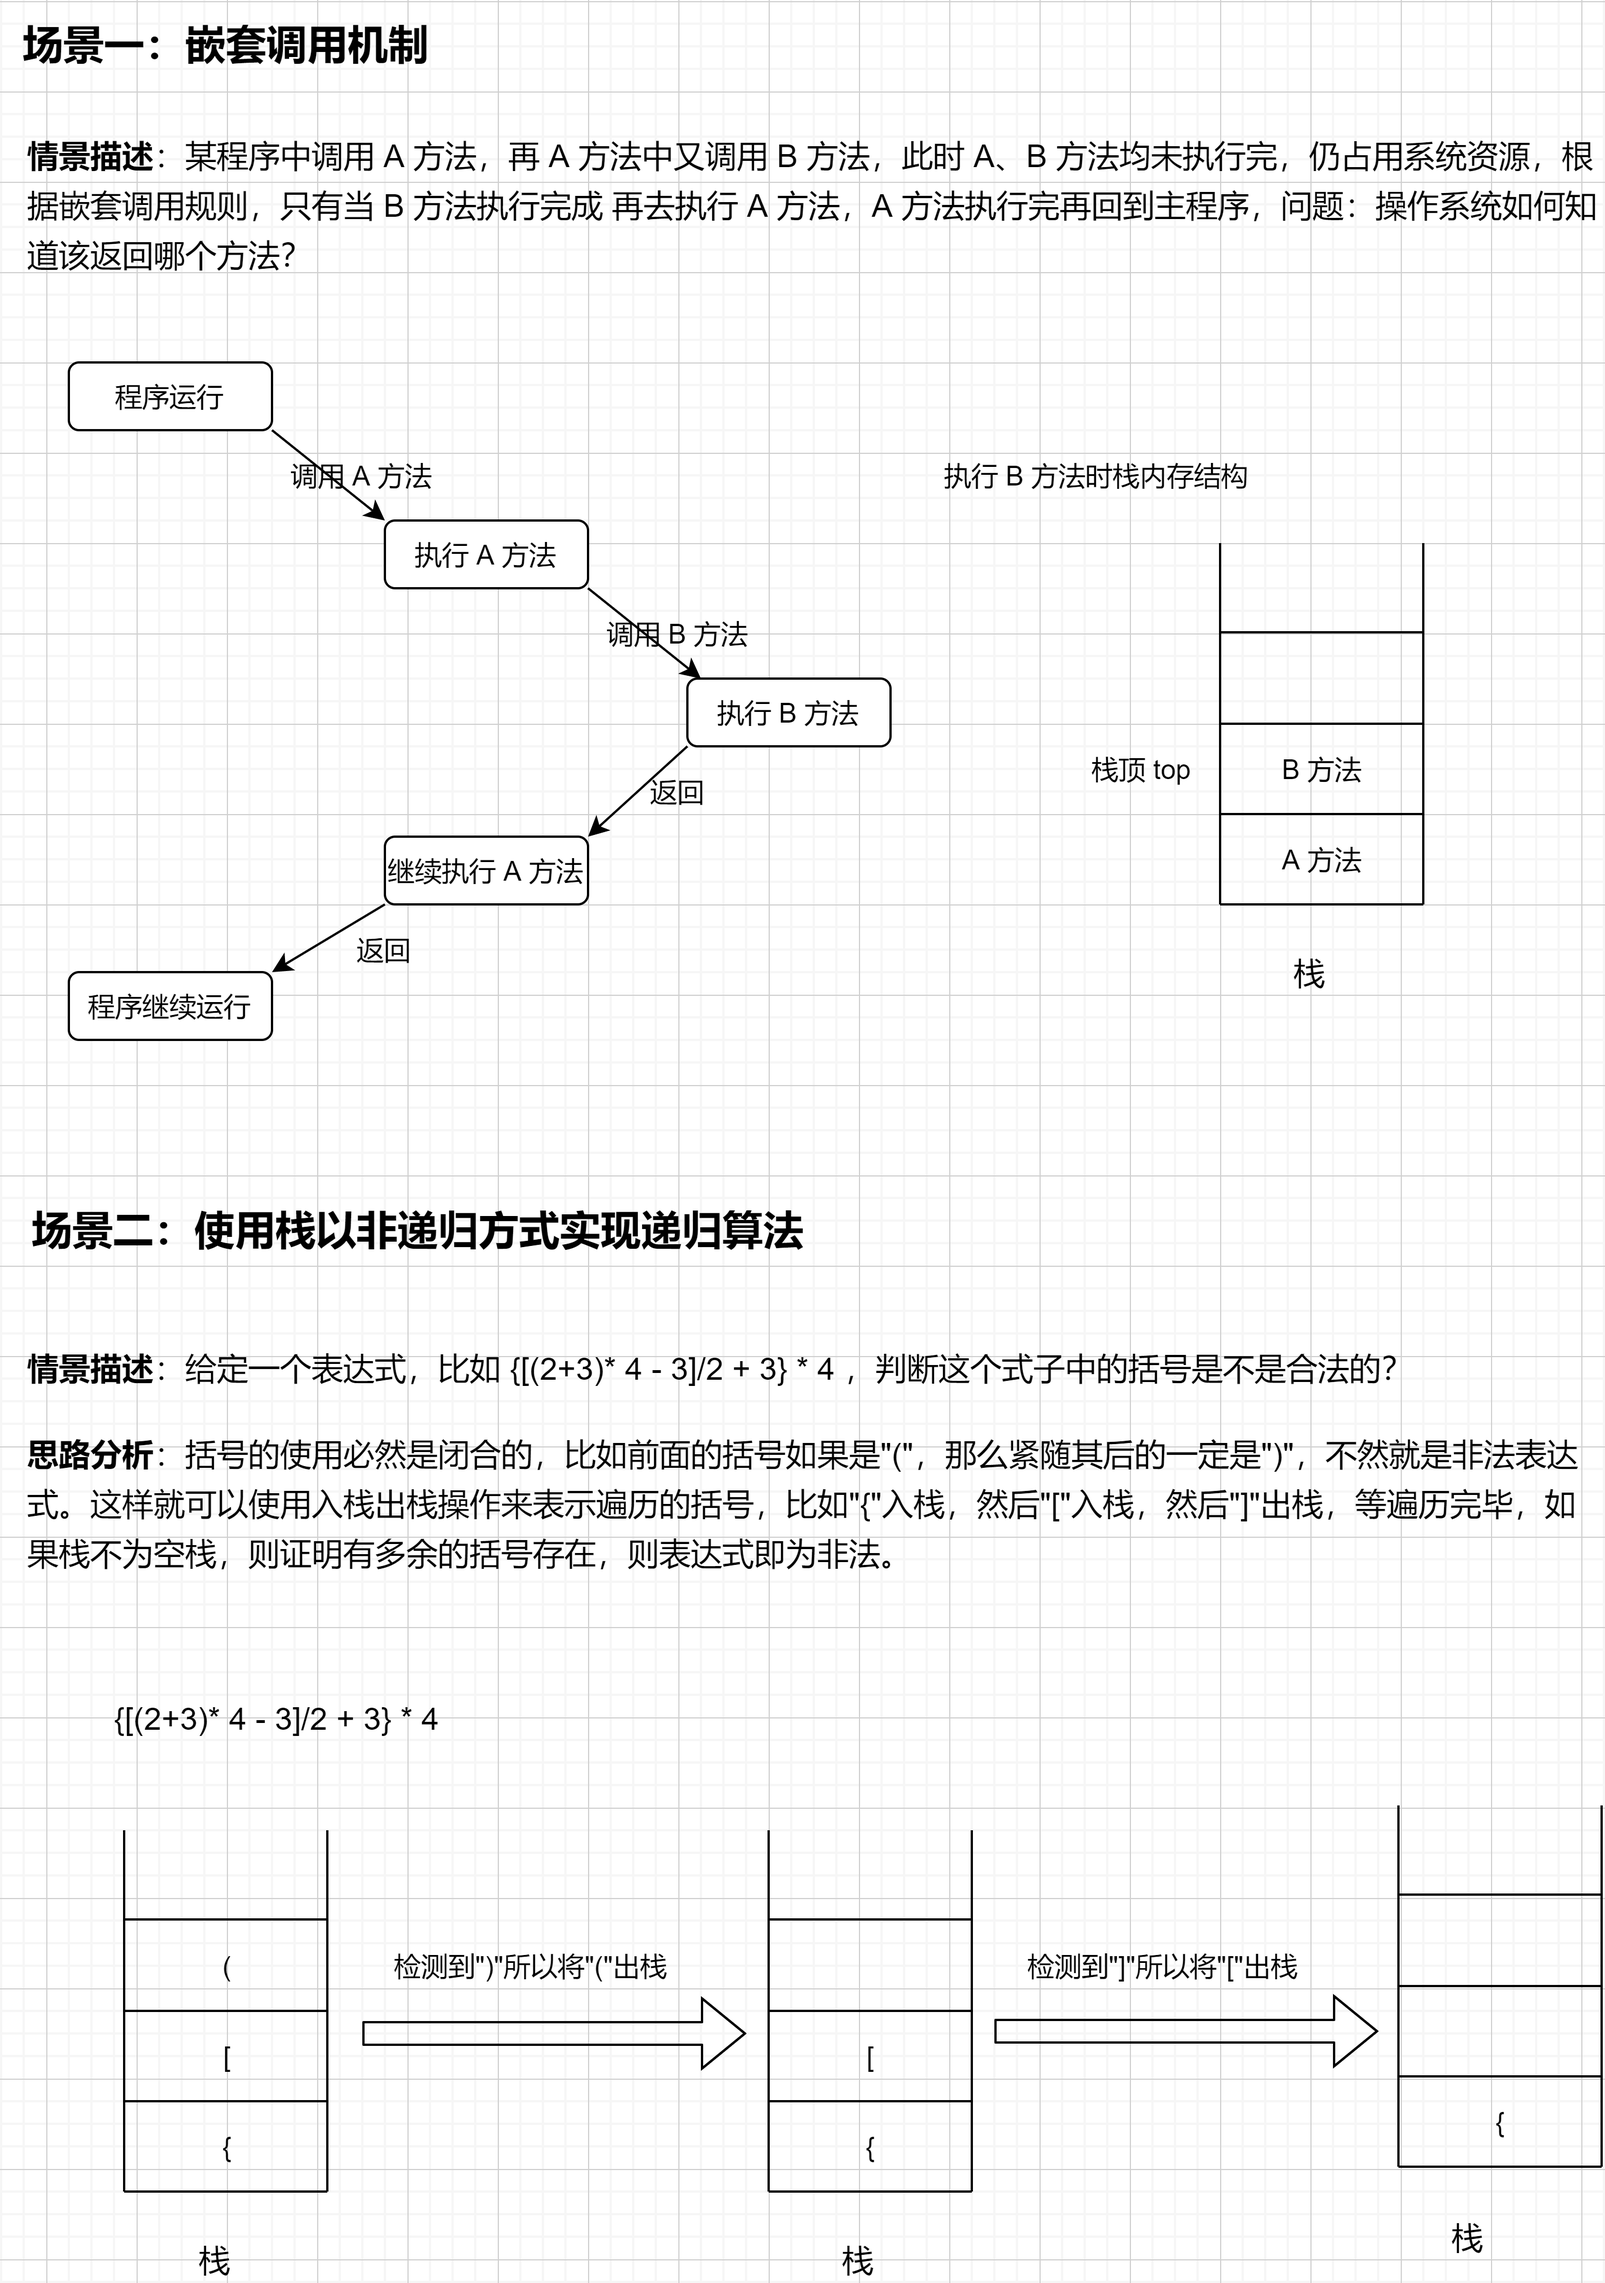
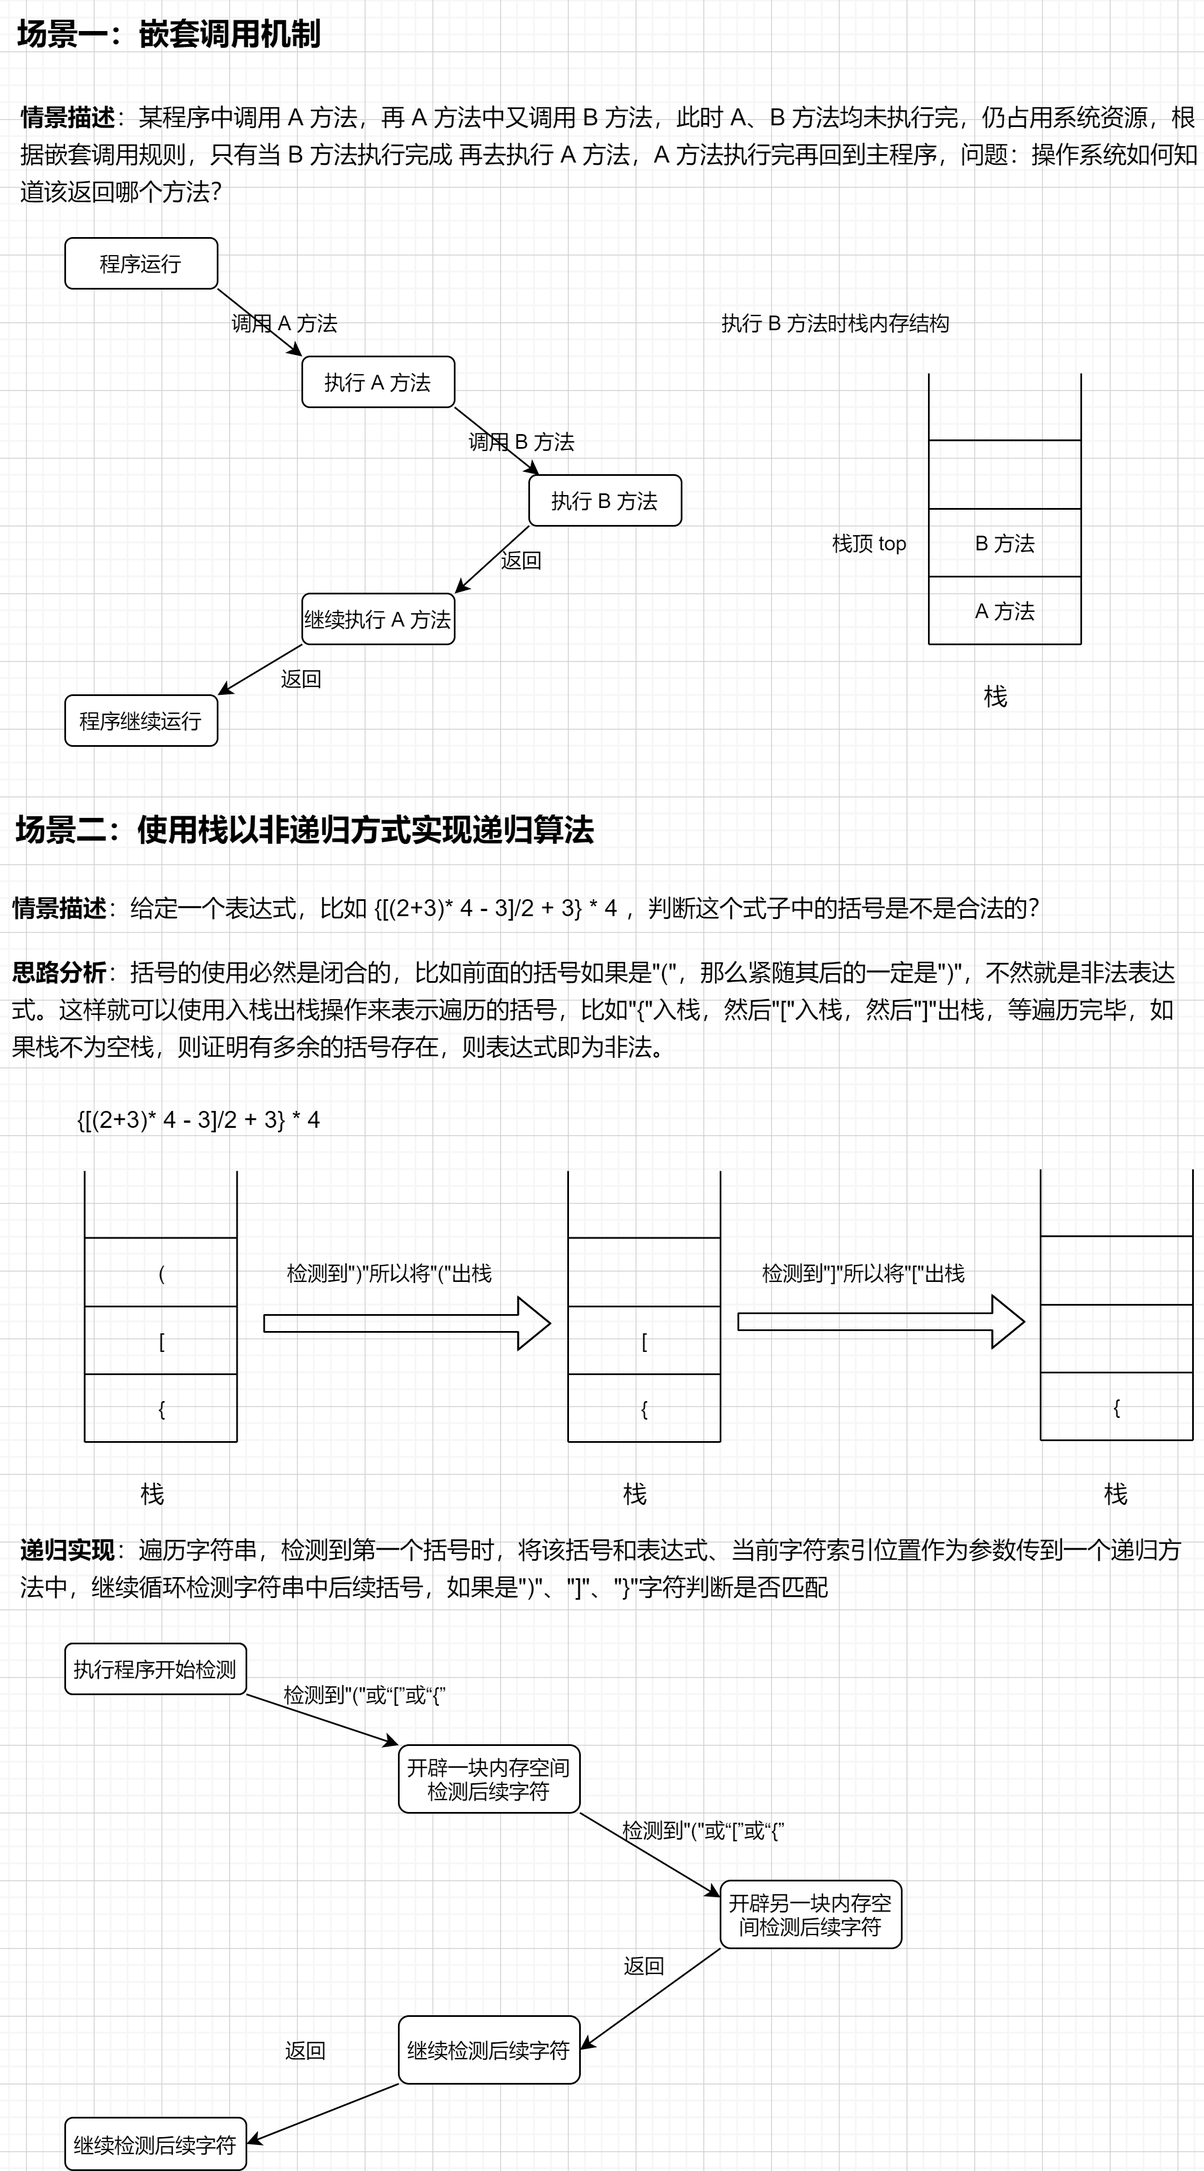
fix：更新栈模块笔记

diff --git a/01、数据结构和算法/栈/栈概念笔记.md b/01、数据结构和算法/栈/栈概念笔记.md
@@ -294,8 +294,127 @@ public class LinkedStack<T> implements SStack<T> {
 
 	任何使用 **后入先出** 这种数据结构的地方都适合使用栈结构（好像是废话，只能简化总结成这样了）。
 
-<img src="static/栈的经典使用场景.png" alt="栈的经典使用场景" style="zoom: 25%;" />
+<img src="static/栈的经典使用场景.png" alt="栈的经典使用场景" style="zoom: 40%;" />
 
 ##### 经典场景举例：
 
 1. 嵌套调用的实现机制特别适合栈这种结构
+
+2. 判断表达式"{[(1+3)*7+(3+4)*2]/2-1}*3"、"{[(1+3)*7+(3+4)*2]/2-1)}*3"中括号是否合法？
+
+   > 这里判断是否合法的标准：不做"()" "{}" "[]"之间的优先级判断，每一个括号都是成对出现，且每对括号之间都是自然数对括号，出现奇数个括号即为非法。
+
+   **使用栈数据结构实现：**
+
+   ```java
+   	/**
+        * 判断给定表达式中的括号是否合法
+        * <p>
+        * 所判断括号的种类范围：() [] {}
+        * </p>
+        *
+        * @param expression
+        * @return
+        */
+       public boolean judgeBracketInExpressionIsValid(String expression) {
+           SeqStack<String> stringLinkedStack = new SeqStack<>(expression.length());
+           HashMap<String, String> hashMap = new HashMap<String, String>() {
+               {
+                   put(")", "(");
+                   put("]", "[");
+                   put("}", "{");
+               }
+           };
+           for (int i = 0; i < expression.length(); i++) {
+               char ch = expression.charAt(i);
+               switch (ch) {
+                   case '(':
+                   case '[':
+                   case '{':
+                       // 入栈
+                       stringLinkedStack.push(ch + "");
+                       break;
+                   case ')':
+                   case ']':
+                   case '}':
+                       // 出栈
+                       if (stringLinkedStack.isEmpty() || (!stringLinkedStack.pop().equals(hashMap.get(ch + "")))) {
+                           return false;
+                       }
+                       break;
+                   default:
+                       break;
+               }
+           }
+           // 如果能执行到这里，判断栈中是否还有剩余元素，如果有剩余元素则证明表达式中括号不合法
+           return stringLinkedStack.isEmpty();
+       }
+   ```
+
+   **使用递归思想实现：**
+
+   ```java
+       /**
+        * 递归方式实现判断表达式中括号是否非法
+        *
+        * @param expression
+        *            给定表达式
+        * @return boolean
+        */
+       public boolean judgeBracketInExpressionIsValidRecursion(String expression) {
+           // 为取数据做准备
+           Map<String, String> afterBracketMap = new HashMap<String, String>(3) {
+               {
+                   put(")", "(");
+                   put("]", "[");
+                   put("}", "{");
+               }
+           };
+           Map<String, String> frontBracketMap = new HashMap<String, String>(3) {
+               {
+                   put("(", "placeholder");
+                   put("[", "placeholder");
+                   put("{", "placeholder");
+               }
+           };
+           // 调用递归方法
+           int handleResult = judgeBracket(expression, -1, afterBracketMap, frontBracketMap, null);
+   
+           return handleResult < 0 ? false : true;
+       }
+   
+   	/**
+        * 递归检测字符
+        * <p>
+        * 其中检测字符的索引游标需要注意下
+        * </p>
+        *
+        * @param expression 待检测表达式
+        * @param index 检测过的表达式中字符索引游标值
+        * @param afterBracketMap 后括号数据映射集合
+        * @param frontBracketMap 前括号数据映射集合
+        * @param targetBracket 待比较字符
+        * @return int 返回值 > 0 合法；返回值 < 0 不合法。
+        */
+       public int judgeBracket(String expression, int index, Map<String, String> afterBracketMap,
+           Map<String, String> frontBracketMap, String targetBracket) {
+           for (int i = index + 1; i < expression.length(); i++) {
+               char charAt = expression.charAt(i);
+               if (frontBracketMap.get(charAt + "") != null) {
+                   // 出现了新的前括号，直接开辟新的内存空间检测
+                   int handle = judgeBracket(expression, i, afterBracketMap, frontBracketMap, charAt + "");
+                   if (handle < 0) {
+                       return handle;
+                   }
+                   // 检测完毕将已检查到的位置的游标返回
+                   i = handle;
+               } else if (afterBracketMap.get(charAt + "") != null) {
+                   // 如果后括号出现，那么前面比较符号如果不对应或者为null均为不合法
+                   return afterBracketMap.get(charAt + "").equals(targetBracket) ? i : -1;
+               }
+           }
+           return 1;
+       }
+   ```
+
+   
